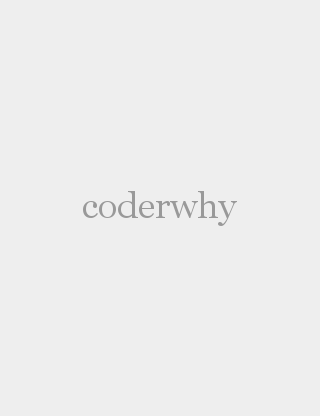
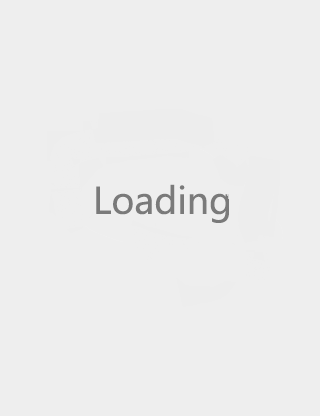
项目完成

Changed region(s): [[0.25, 0.4375, 0.75, 0.5625]]

diff --git a/src/views/profile/childComp/proNormalItem.vue b/src/views/profile/childComp/proNormalItem.vue
@@ -1,0 +1,68 @@
+<template>
+  <div class="NormalList">
+    <div class="icon">
+      <img :src="src" alt="" />
+      <!-- <img src="assets/img/profile/message.svg" alt="" /> -->
+    </div>
+    <div class="text">{{ text }}</div>
+  </div>
+</template>
+
+<script>
+  export default {
+    name: 'NormalList',
+    props: {
+      icon: {
+        type: String
+      },
+      text: {
+        type: String
+      }
+    },
+    computed: {
+      src() {
+        switch (this.icon) {
+          case 'message':
+            return require('../../../assets/img/profile/message.svg');
+            break;
+          case 'pointer':
+            return require('../../../assets/img/profile/pointer.svg');
+            break;
+          case 'vip':
+            return require('../../../assets/img/profile/vip.svg');
+            break;
+          case 'cart':
+            return require('../../../assets/img/profile/cart.svg');
+            break;
+          case 'download':
+            return require('../../../assets/img/profile/shopping.svg');
+            break;
+        }
+      }
+    },
+    data() {
+      return {};
+    }
+  };
+</script>
+
+<style scoped>
+  .NormalList {
+    display: flex;
+    border-bottom: 1px solid #f8f8f8;
+    padding: 10px 0px;
+  }
+  .NormalList .icon {
+    width: 20px;
+    height: 20px;
+    margin: 0px 10px;
+  }
+  .NormalList .icon img {
+    width: 100%;
+  }
+  .NormalList .text {
+    font-size: 12px;
+    height: 20px;
+    line-height: 20px;
+  }
+</style>

diff --git a/src/views/profile/childComp/proPackage.vue b/src/views/profile/childComp/proPackage.vue
@@ -1,0 +1,65 @@
+<template>
+  <div class="package">
+    <div class="item">
+      <div class="detail">
+        <span class="number">0.00</span>
+        <span class="unit">元</span>
+      </div>
+      <div class="accountInfo">我的余额</div>
+    </div>
+    <div class="item">
+      <div class="detail">
+        <span class="number">0</span>
+        <span class="unit">个</span>
+      </div>
+      <div class="accountInfo">我的优惠</div>
+    </div>
+    <div class="item">
+      <div class="detail">
+        <span class="number">0</span>
+        <span class="unit">分</span>
+      </div>
+      <div class="accountInfo">我的积分</div>
+    </div>
+  </div>
+</template>
+
+<script>
+  export default {
+    name: 'package',
+    data() {
+      return {};
+    }
+  };
+</script>
+
+<style scoped>
+  .package {
+    display: flex;
+    /* background-color: red; */
+  }
+  .package div {
+    flex: 1;
+  }
+  .package .item {
+    margin: 20px 0px;
+    display: flex;
+    flex-direction: column;
+    text-align: center;
+    border-left: 1px solid #e8e8e8;
+  }
+  .package .item .detail {
+    margin: 5px 0px;
+  }
+  .package .item .detail .number {
+    font-size: 20px;
+    font-weight: bold;
+    color: var(--color-high-text);
+  }
+  .package .item .detail .unit {
+    font-size: 12px;
+  }
+  .package .item .accountInfo {
+    font-size: 12px;
+  }
+</style>

diff --git a/src/views/profile/Profile.vue b/src/views/profile/Profile.vue
@@ -1,14 +1,57 @@
 <template>
-  <div>我的</div>
+  <div>
+    <nav-bar class="navbar">
+      <div slot="center">我的</div>
+    </nav-bar>
+    <sign></sign>
+    <package></package>
+    <div class="normalItems">
+      <normal-item
+        v-for="item in normalItemList"
+        :icon="item.icon"
+        :text="item.text"
+        :key="item.text"
+      ></normal-item>
+    </div>
+  </div>
 </template>
 
 <script>
+  import NavBar from 'components/common/navbar/NavBar';
+
+  import sign from './childComp/proSign';
+  import Package from './childComp/proPackage';
+  import NormalItem from './childComp/proNormalItem';
   export default {
     name: 'Profile',
     data() {
-      return {};
+      return {
+        normalItemList: [
+          { icon: 'message', text: '我的消息' },
+          { icon: 'pointer', text: '积分商城' },
+          { icon: 'vip', text: '会员卡' },
+          { icon: 'cart', text: '我的购物车' },
+          { icon: 'download', text: '下载购物APP' }
+        ]
+      };
+    },
+
+    components: {
+      NavBar,
+      sign,
+      Package,
+      NormalItem
     }
   };
 </script>
 
-<style scoped></style>
+<style scoped>
+  .navbar {
+    background-color: var(--color-tint);
+    color: #fff;
+  }
+  .normalItems {
+    border-top: 10px solid #f8f8f8;
+    border-bottom: 10px solid #f8f8f8;
+  }
+</style>

diff --git a/src/views/profile/childComp/proSign.vue b/src/views/profile/childComp/proSign.vue
@@ -1,0 +1,70 @@
+<template>
+  <div class="sign">
+    <div class="avatar">
+      <img src="~assets/img/profile/avatar.svg" alt="" />
+    </div>
+    <div class="text">
+      <div class="info">登录/注册</div>
+      <div class="phone">
+        <img src="~assets/img/profile/phone.svg" alt="" />
+        <span>暂无绑定手机号</span>
+      </div>
+    </div>
+    <div class="arrowLeft">
+      <img src="~assets/img/common/arrow-left.svg" alt="" />
+    </div>
+  </div>
+</template>
+
+<script>
+  export default {
+    name: 'Sign',
+    data() {
+      return {};
+    }
+  };
+</script>
+
+<style scoped>
+  .sign {
+    display: flex;
+    background-color: var(--color-tint);
+    align-items: center;
+    height: 25%;
+    position: relative;
+  }
+  .avatar {
+    height: 60px;
+    width: 60px;
+    margin: 10px 10px;
+  }
+  .avatar img {
+    width: 100%;
+  }
+  .text {
+    display: flex;
+    flex-direction: column;
+    color: #fff;
+  }
+  .text img {
+    width: 18px;
+    height: auto;
+  }
+  .text .info {
+    padding-left: 3px;
+  }
+  .text .phone {
+    display: flex;
+    align-items: center;
+    font-size: 12px;
+  }
+  .arrowLeft {
+    height: 20px;
+    width: 20px;
+    position: absolute;
+    right: 20px;
+  }
+  .arrowLeft img {
+    width: 100%;
+  }
+</style>

diff --git a/postcss.config.js b/postcss.config.js
@@ -1,0 +1,15 @@
+module.exports = {
+  plugins: {
+    autoprefixer: {},
+    'postcss-px-to-viewport': {
+      viewportWidth: 375, // 视窗的宽度，对应的是我们设计稿的宽度.
+      viewportHeight: 667, // 视窗的高度，对应的是我们设计稿的高度.(也可以不配置)
+      unitPrecision: 5, // 指定`px`转换为视窗单位值的小数位数（很多时候无法整除）
+      viewportUnit: 'vw', // 指定需要转换成的视窗单位，建议使用vw
+      selectorBlackList: ['ignore', 'tab-bar', 'tab-bar-item'], // 指定不需要转换的类,后面再讲.
+      minPixelValue: 1, // 小于或等于`1px`不转换为视窗单位.
+      mediaQuery: false, // 允许在媒体查询中转换`px`
+      exclude: [/TabBar\.vue$/]
+    }
+  }
+};

diff --git a/src/views/category/childComps/catContent.vue b/src/views/category/childComps/catContent.vue
@@ -38,13 +38,17 @@
         type: ['pop', 'new', 'sell']
       };
     },
+    created() {
+      this.$bus.$on('goodsItemImgLoad', () => {
+        this.$refs.scroll.refresh();
+      });
+    },
     methods: {
       imgLoad() {
         this.$refs.scroll.refresh;
       },
       curConBarIndex(index) {
         let type = this.type[index];
-        console.log(type);
         this.$emit('curConBarIndex', type);
       }
     },

diff --git a/src/views/detail/childComps/detailSku.vue b/src/views/detail/childComps/detailSku.vue
@@ -167,7 +167,15 @@
         }
       },
       buy() {
-        alert('购买成功！');
+        if (
+          (this.current.sizeId != undefined) &
+          (this.current.styleId != undefined) &
+          (this.counter != 0)
+        ) {
+          alert('购买成功！');
+        } else {
+          alert('请正确选择款式!');
+        }
       }
     },
     computed: {

diff --git a/src/main.js b/src/main.js
@@ -3,9 +3,15 @@ import App from './App.vue';
 import router from './router';
 import store from './store';
 
+import VueLazyLoad from 'vue-lazyload';
+
 Vue.config.productionTip = false;
 
 Vue.prototype.$bus = new Vue();
+
+Vue.use(VueLazyLoad, {
+  loading: require('./assets/img/common/placeholder.png')
+});
 
 new Vue({
   render: h => h(App),

diff --git a/src/components/content/goodsList/goodsItem.vue b/src/components/content/goodsList/goodsItem.vue
@@ -1,6 +1,6 @@
 <template>
   <div class="goodsItem" @click="goodsItemClick">
-    <img :src="showImg" alt="" @load="imgLoad" />
+    <img v-lazy="showImg" alt="" @load="imgLoad" />
     <div class="goodsInfos">
       <p>{{ goodsItem.title }}</p>
       <p>

diff --git a/src/views/cart/Cart.vue b/src/views/cart/Cart.vue
@@ -197,7 +197,7 @@
     height: auto;
   }
   .content .itemInfos {
-    width: calc((100%-20px -70px) * 0.6);
+    width: calc((100%-90px) * 0.7);
     margin-left: 15px;
   }
   .content .itemInfos .title {
